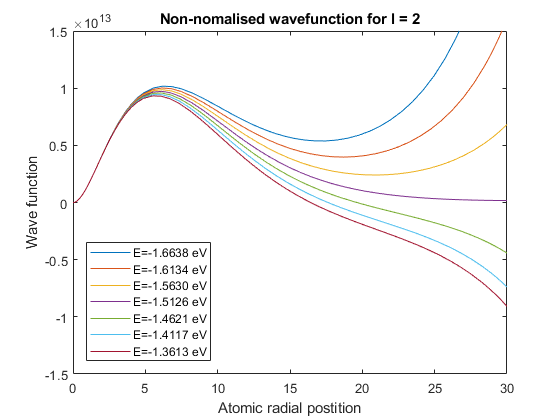
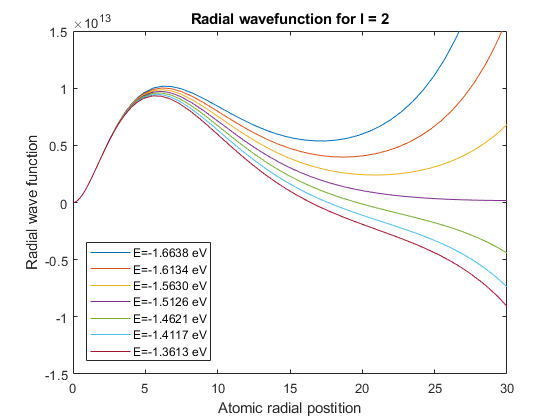
lax

Changed region(s): [[0.0304, 0.3405, 0.0911, 0.65], [0.2732, 0.031, 0.7589, 0.0619]]

diff --git a/hydrogen_shooting.m b/hydrogen_shooting.m
@@ -25,8 +25,8 @@ for i = 1:length(energies_l0)
     hold on;
 end
 xlabel('Atomic radial postition');
-ylabel('Wave function');
-title('Non-nomalised wavefunction for l = 0'); 
+ylabel('Radial wave function');
+title('Radial wavefunction for l = 0'); 
 legend(cellstr(num2str(energies_l0' * au_eV_conv, 'E=%.4f eV')), 'location', 'southwest');
 axis([0 23 -20 20]);
 
@@ -39,8 +39,8 @@ for i = 1:length(energies_l1)
     hold on;
 end
 xlabel('Atomic radial postition');
-ylabel('Wave function');
-title('Non-nomalised wavefunction for l = 1'); 
+ylabel('Radial wave function');
+title('Radial wavefunction for l = 1'); 
 legend(cellstr(num2str(energies_l1' * au_eV_conv, 'E=%.4f eV')), 'location', 'southwest');
 axis([0 23 -30000 30000]);
 
@@ -53,7 +53,7 @@ for i = 1:length(energies_l2)
     hold on;
 end
 xlabel('Atomic radial postition');
-ylabel('Wave function');
-title('Non-nomalised wavefunction for l = 2'); 
+ylabel('Radial wave function');
+title('Radial wavefunction for l = 2'); 
 legend(cellstr(num2str(energies_l2' * au_eV_conv, 'E=%.4f eV')), 'location', 'southwest');
 axis([0 30 -1.5*10^13 1.5*10^13]);
